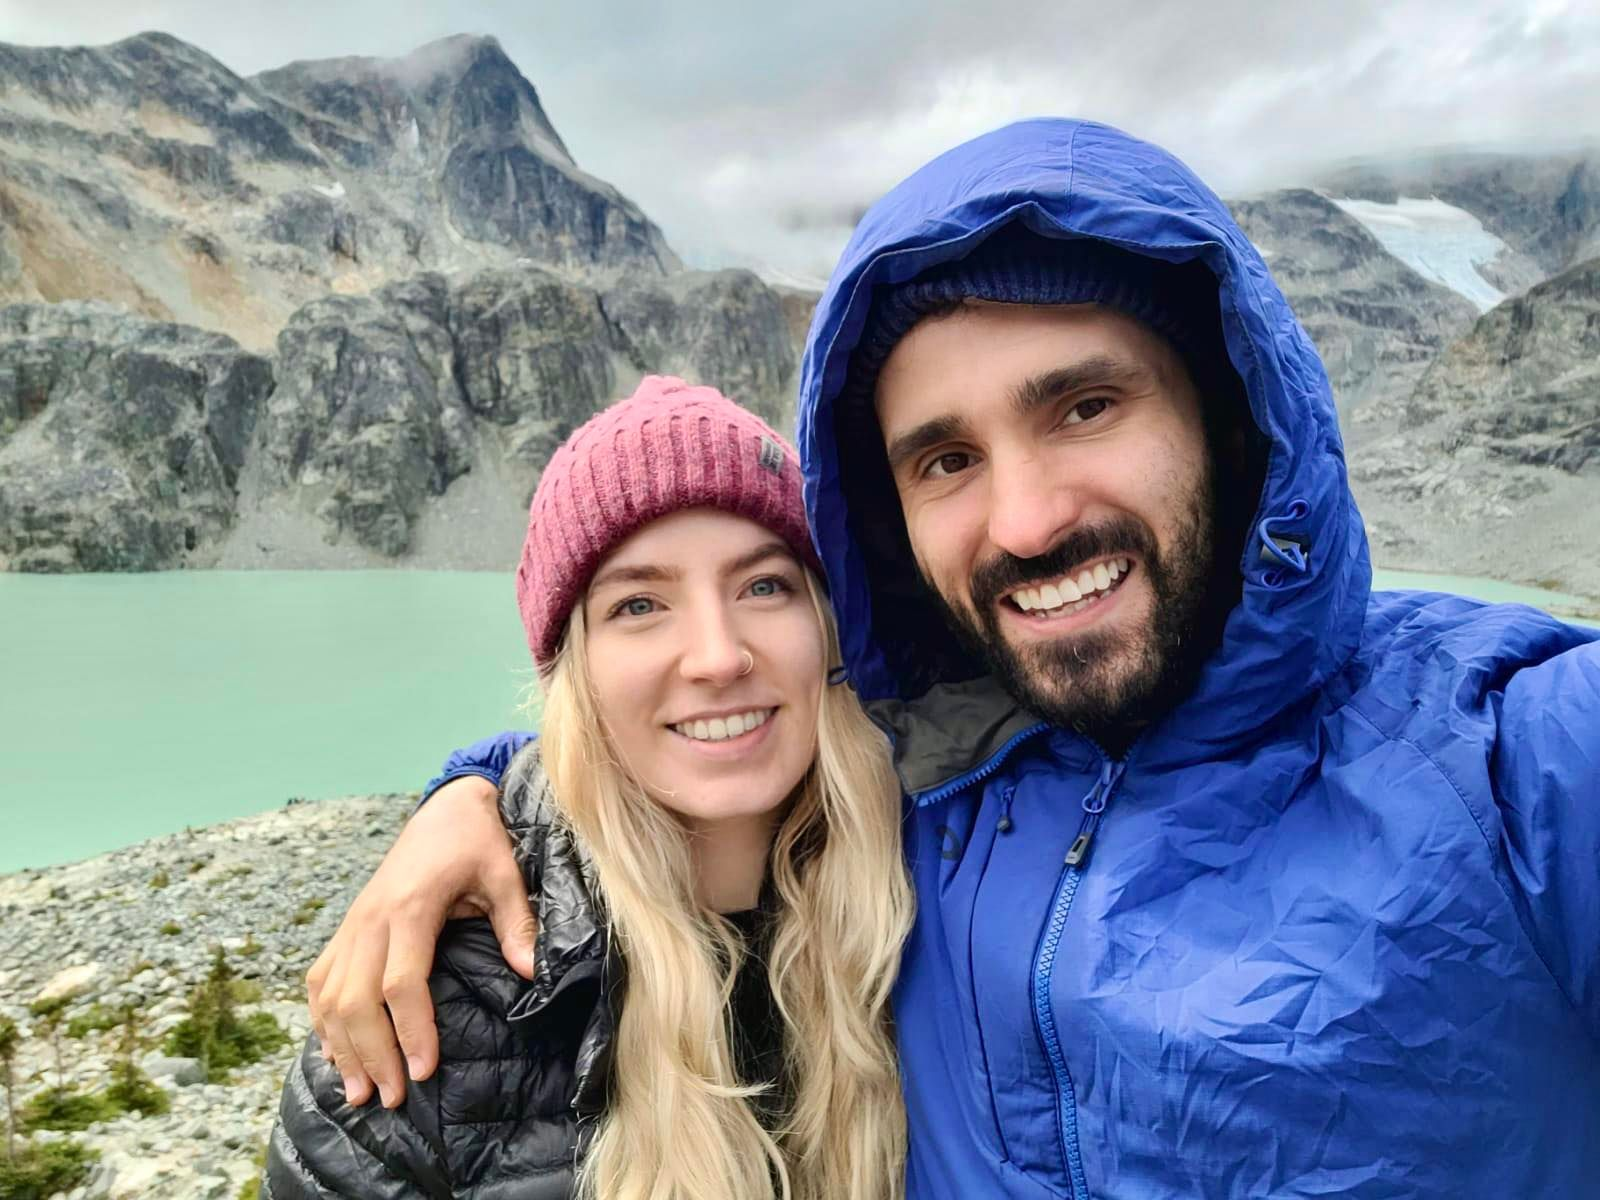
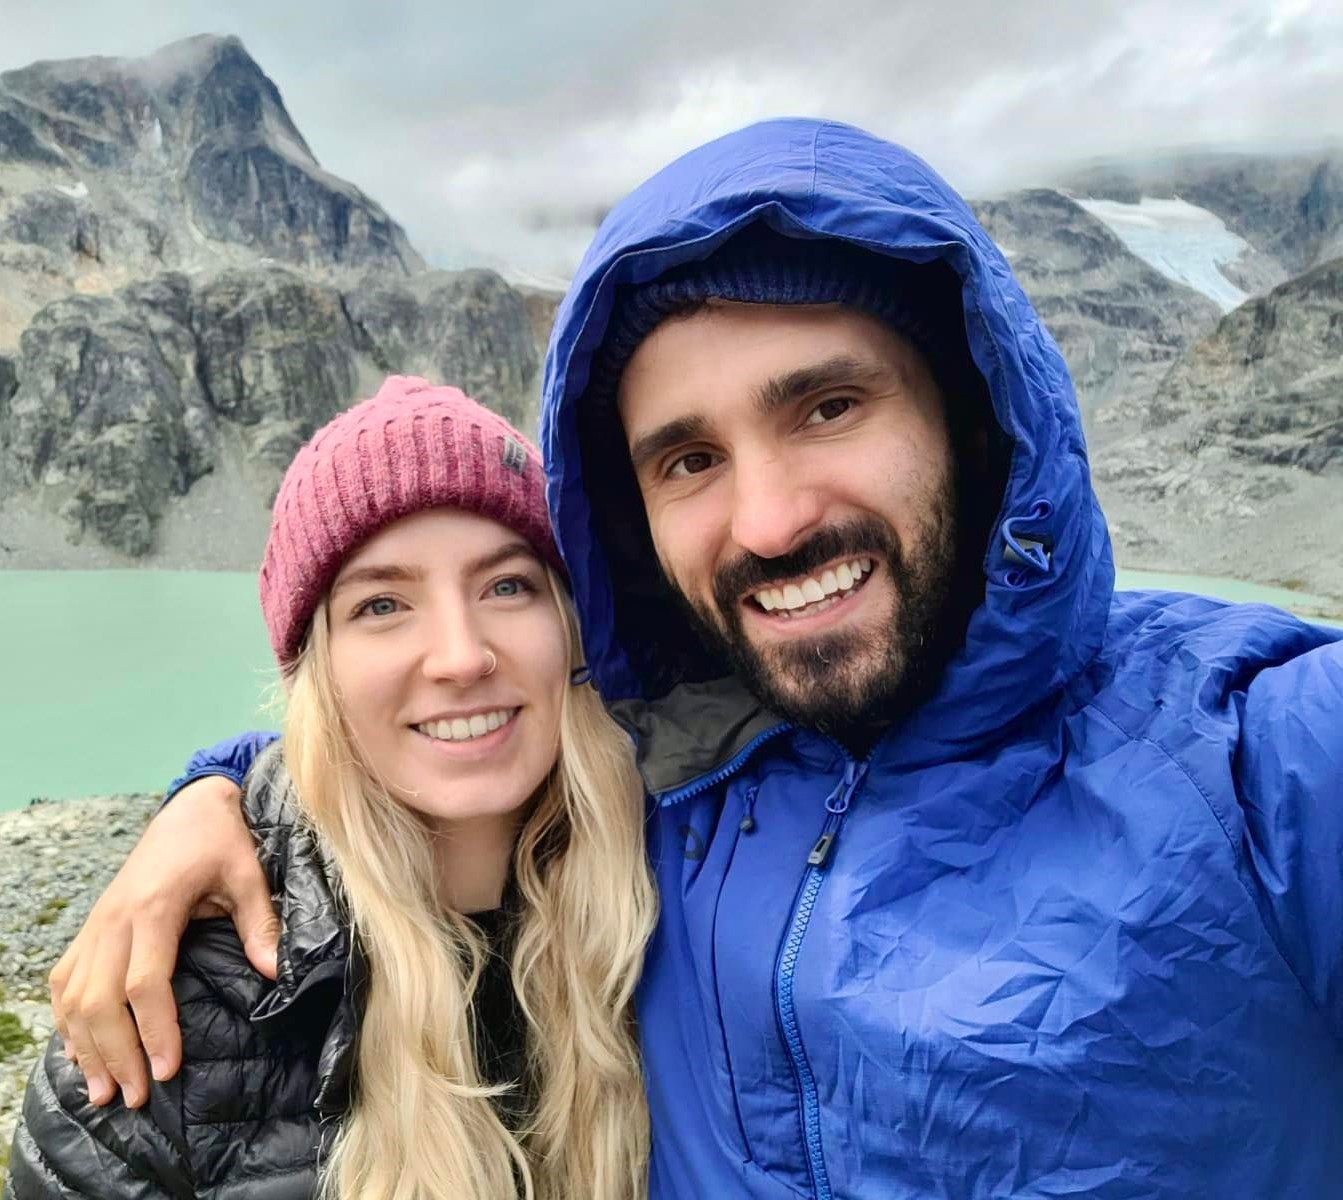
working/learning on parallax scrolling

diff --git a/index.html b/index.html
@@ -22,7 +22,7 @@
     <link rel="stylesheet" href="style/style.css" />
   </head>
   <body>
-    <nav class="navbar navbar-expand-lg sticky-top">
+    <nav class="navbar navbar-expand-lg">
       <a class="navbar-brand" href="#"
         ><img src="Media/logo.png" class="nav-logo" alt=""
       /></a>
@@ -70,62 +70,118 @@
         </ul>
       </div>
     </nav>
-    <div class="hero">
-      <div>
-        <h1>Zach & MJ's Adventure's</h1>
-      </div>
-      <div>
-        <img src="media/AboutUs.jpg" class="about-us" alt="" />
-      </div>
+    <div class="wrapper">
+      <header>
+        <img src="media/Header.JPG" class="background" alt="" />
+        <img src="Media/AboutUs.jpg" class="about-us-img" alt="" />
+        <div class="inner-wrapper">
+          <h1 class="title">Zach & MJ's Adventure's</h1>
+        </div>
+      </header>
     </div>
-    <div class="section">
+
+    <section>
       <h2>About Us</h2>
-      <p>
-        Our purpose to creating this blog is to spread our knowledge to the
-        community and also share our mistakes, what we've learnt from them. I'm
-        sure some of these stories will make you laugh or make you question if
-        you should take any of our advice!😅 In all seriousness, we would like
-        to be transparent with our lessons weve learnt threw time. This is a
-        platform of no judment, we believe that sharing hard lessons are key to
-        a greater community!
-      </p>
-      <p>
-        Our purpose to creating this blog is to spread our knowledge to the
-        community and also share our mistakes, what we've learnt from them. I'm
-        sure some of these stories will make you laugh or make you question if
-        you should take any of our advice!😅 In all seriousness, we would like
-        to be transparent with our lessons weve learnt threw time. This is a
-        platform of no judment, we believe that sharing hard lessons are key to
-        a greater community!
-      </p>
-      <p>
-        Our purpose to creating this blog is to spread our knowledge to the
-        community and also share our mistakes, what we've learnt from them. I'm
-        sure some of these stories will make you laugh or make you question if
-        you should take any of our advice!😅 In all seriousness, we would like
-        to be transparent with our lessons weve learnt threw time. This is a
-        platform of no judment, we believe that sharing hard lessons are key to
-        a greater community!
-      </p>
-      <p>
-        Our purpose to creating this blog is to spread our knowledge to the
-        community and also share our mistakes, what we've learnt from them. I'm
-        sure some of these stories will make you laugh or make you question if
-        you should take any of our advice!😅 In all seriousness, we would like
-        to be transparent with our lessons weve learnt threw time. This is a
-        platform of no judment, we believe that sharing hard lessons are key to
-        a greater community!
-      </p>
-      <p>
-        Our purpose to creating this blog is to spread our knowledge to the
-        community and also share our mistakes, what we've learnt from them. I'm
-        sure some of these stories will make you laugh or make you question if
-        you should take any of our advice!😅 In all seriousness, we would like
-        to be transparent with our lessons weve learnt threw time. This is a
-        platform of no judment, we believe that sharing hard lessons are key to
-        a greater community!
-      </p>
-    </div>
+      Lorem ipsum dolor sit amet consectetur, adipisicing elit. Quis veritatis
+      ipsam culpa alias perferendis, tempora accusamus iusto ea dignissimos,
+      adipisci, architecto obcaecati neque omnis accusantium voluptatibus
+      suscipit ullam in sit? Lorem ipsum dolor sit, amet consectetur adipisicing
+      elit. Iste facere alias expedita illum. Quas velit facere nisi quasi,
+      aperiam harum! Error quasi earum repellat! Dolor dolorem impedit quod
+      voluptates temporibus eligendi libero molestias adipisci odit
+      perspiciatis! Ex, necessitatibus perferendis dignissimos ratione nemo
+      voluptatibus fugiat, molestiae vel odit quis dolores unde cupiditate
+      ducimus! Minus, similique ipsa ex libero nobis tempore unde, cupiditate
+      itaque quasi temporibus maxime perspiciatis! Exercitationem pariatur quasi
+      distinctio modi quis, hic blanditiis amet consectetur nisi aut officiis
+      commodi dicta delectus tenetur quae tempora qui. Distinctio vero dicta
+      dignissimos ullam consequatur aliquid quibusdam, itaque, sit deserunt quod
+      perferendis tempore dolorem delectus quaerat impedit nihil. Ducimus
+      maxime, quod repudiandae vero quis dolore pariatur, iusto odit fuga quos
+      ab voluptate debitis quas officia numquam reiciendis rerum consequatur
+      velit eum labore totam sapiente cupiditate temporibus dolor.
+      Necessitatibus saepe earum repudiandae quaerat. Vitae officiis soluta esse
+      voluptatem consequuntur, vero voluptas cum dolore magni doloribus quis
+      nihil veritatis Lorem ipsum, dolor sit amet consectetur adipisicing elit.
+      Hic libero odit autem iusto non mollitia sed tempora, doloremque nesciunt
+      eligendi nisi iste expedita ratione voluptatum harum vero quasi quibusdam!
+      Aperiam nesciunt hic eligendi nam harum tenetur minima fugiat architecto
+      perferendis recusandae odit repellat iusto consectetur voluptatem
+      obcaecati dignissimos corporis cum ullam iure deserunt, alias accusamus
+      vel sint! Error nobis ipsum delectus suscipit magnam asperiores similique
+      in a debitis dignissimos aspernatur dolore unde dicta cupiditate quae
+      quaerat, mollitia, tenetur numquam consequuntur accusantium quam ea
+      perspiciatis ut consequatur. Nobis maiores iusto, ipsam beatae aut
+      provident saepe eius eum deserunt aliquam dolores, unde quibusdam
+      molestiae? Earum fugit, similique doloribus esse enim beatae tempore modi
+      soluta nemo, explicabo officiis repudiandae illum expedita sequi animi
+      distinctio veniam obcaecati placeat autem ea harum sint at numquam!
+      Aspernatur commodi obcaecati molestias odio beatae voluptatem, ducimus quo
+      quod illum, sapiente iusto eos suscipit tempore necessitatibus laborum
+      consequuntur provident officiis molestiae sunt amet repudiandae ex id
+      natus. Quidem, voluptatibus est molestias, eaque ratione excepturi eum
+      unde rem mollitia eveniet corrupti autem dolorem veniam repellendus
+      deserunt ea placeat tempore natus nesciunt, laudantium at assumenda beatae
+      eius ducimus. Itaque voluptatum ab neque, dolores quidem quod nulla ut
+      accusantium repudiandae. Dignissimos unde, tempora ratione dolores fuga
+      minima sapiente eligendi esse reprehenderit corrupti inventore doloremque.
+      Culpa inventore distinctio maiores nisi voluptatum harum voluptatibus
+      optio rem voluptates odio recusandae molestias aliquid possimus quas,
+      nesciunt amet quibusdam dolores, totam cum provident aut ullam voluptate!
+      Rem corporis in, nam, iste ad dicta quis obcaecati autem facere repellat,
+      blanditiis sed quam accusantium. Soluta cumque nesciunt minima nisi
+      aperiam molestiae nemo odit dolor architecto delectus consequuntur nobis
+      sint repellendus maiores quisquam labore fugiat cupiditate, officia rem,
+      repellat totam minus at fugit ipsam. Alias molestias sequi eligendi
+      quaerat atque ab, ipsam, eius officia, omnis quam nesciunt minima eos
+      eveniet. quod officia, ratione laborum alias dicta aliquid omnis!
+      Voluptatum, nisi. Doloremque voluptatem excepturi suscipit nobis aperiam?
+      Et consequuntur beatae facere vel pariatur. Culpa quaerat beatae quod odit
+      consequatur tempore perferendis cum repudiandae laborum totam molestias
+      laudantium ipsum illo nesciunt sed possimus ullam eos labore aspernatur ad
+      itaque sequi quam, ducimus fugit! Veniam corporis natus eaque, quaerat
+      nesciunt obcaecati nam dolor ipsa sit culpa delectus earum adipisci iste
+      minima vitae, sunt commodi esse recusandae quas, et doloribus praesentium
+      cupiditate? Soluta, unde aliquid ad, magnam autem necessitatibus obcaecati
+      assumenda nobis iusto voluptatem earum possimus cupiditate quo mollitia
+      dolor. Consequuntur ad consectetur tempora vero perferendis, itaque modi
+      omnis voluptates dolore consequatur sed cumque maxime, totam excepturi
+      culpa, fuga magnam aut ipsum necessitatibus? Deserunt officia veritatis
+      aliquam suscipit unde perspiciatis laborum asperiores iure voluptatibus,
+      optio adipisci quas placeat modi voluptate quisquam praesentium quibusdam
+      rem corporis. Cum, atque! Distinctio, voluptatum eveniet! Our purpose to
+      creating this blog is to spread our knowledge to the community and also
+      share our mistakes, what we've learnt from them. I'm sure some of these
+      stories will make you laugh or make you question if you should take any of
+      our advice!😅 In all seriousness, we would like to be transparent with our
+      lessons weve learnt threw time. This is a platform of no judment, we
+      believe that sharing hard lessons are key to a greater community! Our
+      purpose to creating this blog is to spread our knowledge to the community
+      and also share our mistakes, what we've learnt from them. I'm sure some of
+      these stories will make you laugh or make you question if you should take
+      any of our advice!😅 In all seriousness, we would like to be transparent
+      with our lessons weve learnt threw time. This is a platform of no judment,
+      we believe that sharing hard lessons are key to a greater community! Our
+      purpose to creating this blog is to spread our knowledge to the community
+      and also share our mistakes, what we've learnt from them. I'm sure some of
+      these stories will make you laugh or make you question if you should take
+      any of our advice!😅 In all seriousness, we would like to be transparent
+      with our lessons weve learnt threw time. This is a platform of no judment,
+      we believe that sharing hard lessons are key to a greater community! Our
+      purpose to creating this blog is to spread our knowledge to the community
+      and also share our mistakes, what we've learnt from them. I'm sure some of
+      these stories will make you laugh or make you question if you should take
+      any of our advice!😅 In all seriousness, we would like to be transparent
+      with our lessons weve learnt threw time. This is a platform of no judment,
+      we believe that sharing hard lessons are key to Our purpose to creating
+      this blog is to spread our knowledge to the community and also share our
+      mistakes, what we've learnt from them. I'm sure some of these stories will
+      make you laugh or make you question if you should take any of our
+      advice!😅 In all seriousness, we would like to be transparent with our
+      lessons weve learnt threw time. This is a platform of no judment, we
+      believe that sharing hard lessons are key to a greater community!
+    </section>
+
     <script
       src="https://code.jquery.com/jquery-3.2.1.slim.min.js"
       integrity="sha384-KJ3o2DKtIkvYIK3UENzmM7KCkRr/rE9/Qpg6aAZGJwFDMVNA/GpGFF93hXpG5KkN"

diff --git a/style/style.css b/style/style.css
@@ -1,3 +1,6 @@
+body {
+  margin: 0;
+}
 nav {
   background-image: linear-gradient(
     180deg,
@@ -9,20 +12,54 @@ nav {
   width: 65%;
   padding-left: 10px;
 }
-.hero .about-us {
-  width: 100%;
+.wrapper {
+  height: 100vh;
+  overflow-y: auto;
+  overflow-x: hidden;
+  perspective: 10px;
 }
-.hero {
-  display: grid;
-  grid-template-columns: 2fr 1fr;
-  background-size: 100%;
-  background-repeat: no-repeat;
-  background-position: center;
-  background-image: linear-gradient(
-      rgba(255, 255, 255, 0.2),
-      rgba(255, 255, 255, 0.5)
-    ),
-    url("/Media/MntnRng.jpg");
-
-  padding: 80px;
+header {
+  position: relative;
+  display: flex;
+  justify-content: left;
+  align-items: center;
+  height: 100%;
+  transform-style: preserve-3d;
+  z-index: -1;
+}
+.background,
+.about-us-img {
+  position: absolute;
+  height: 100%;
+  width: 100%;
+  object-fit: cover;
+  z-index: -1;
+}
+.background {
+  transform: translateZ(-10px) scale(2);
+}
+.about-us-img {
+  border-radius: 50%;
+  transform: translateZ(-5px) scale(1);
+  width: 80%;
+  height: 80%;
+}
+section {
+  font-size: 2rem;
+  padding: 2rem;
+  background-color: grey;
+  color: aliceblue;
+}
+.inner-wrapper {
+  padding: 100px 50px;
+  max-width: 400px;
+  margin-left: 20px;
+  --background-color: #6b847d;
+}
+.title {
+  font-size: 48px;
+  font-family: Judson;
+  font-weight: 900;
+  color: aliceblue;
+  text-shadow: 0 0 5px rgb(46, 46, 46);
 }
